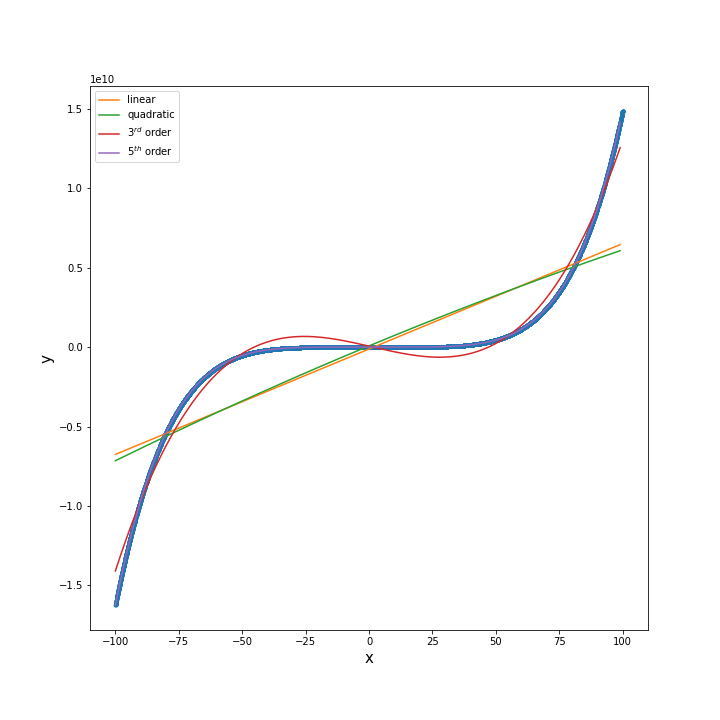
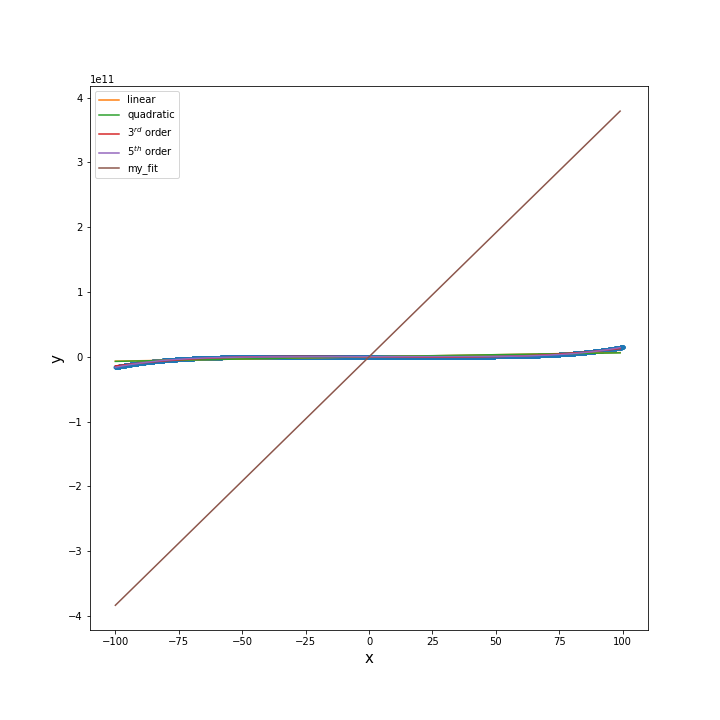
grad_desc fixed - unit tests to the resque!

diff --git a/test/test_inout_nn.py b/test/test_inout_nn.py
@@ -80,20 +80,38 @@ class InOutNNCostTests(unittest.TestCase):
         cost,_ = a.cost(sample,np.array([0,0,0]).T)
         self.assertEqual(cost,29/6)
 
+    def test_dcost_constant(self):
+        # y = 300
+        sample = np.array([np.ones(10000)]).T # for 1st  order polynomial
+        y = 300*np.ones(10000) 
+        a = nn.InOutNN(0)
+        a.W1=np.array([1000])
+        cost,dcost = a.cost(sample,y)
+        self.assertEqual(dcost, np.array([700]))
+        self.assertEqual(cost, 245000)
 
 class InOutNNGradientDescentTests(unittest.TestCase):
 
+    def test_gradient_descent_constant(self):
+        # y = 300
+        sample = np.array([np.ones(10000)]).T # for 1st  order polynomial
+        y = 300*np.ones(10000) 
+        a = nn.InOutNN(0, init_random=True)
+        a.W1=np.array([1000])
+        a.gradient_descent(sample,y, alpha=0.7, tol=0.0000001 )
+        self.assertAlmostEqual(a.W1[0], 300, places=3)
+
     def test_gradient_descent_linear(self):
-        # y = 2x + 3
+        # y = 2000*x - 300
         sample = np.array([np.ones(10000), np.random.rand(10000)]).T # for 1st  order polynomial
-        y = np.array([2*x+3 for x in sample[:,1]])
+        y = np.array([2000*x+300 for x in sample[:,1]])
         a = nn.InOutNN(1, init_random=True)
-        a.gradient_descent(sample,y)
+        a.gradient_descent(sample,y, alpha=1)
         try:
-            np.testing.assert_array_equal(a.W1, [3,2])
+            np.testing.assert_array_equal(a.W1, [300,2000])
             res=True
         except AssertionError:
-            print("{} in not equal to {}".format(a.W1, [3,2]))
+            print("{} in not equal to {}".format(a.W1, [300,2000]))
             res=False
         self.assertTrue(res)
 

diff --git a/src/inout_nn.py b/src/inout_nn.py
@@ -65,12 +65,12 @@ weight matrix, W1:
         l = len(y)
 
         cost = np.sum((h_x-y)**2)/(2*l) + lam*np.sum(self.W1**2)/(2*l)
-        dcost = np.array([np.sum( np.sum(h_x-y)*input_data[:,i] )/l 
+        dcost = np.array([np.sum( np.multiply((h_x-y),input_data[:,i]) )/l 
             + lam*self.W1[i]/l for i in range(self.n+1)])
 
         return (cost, dcost)
 
-    def gradient_descent(self, input_data, y, alpha=0.00001, tol=0.0001):
+    def gradient_descent(self, input_data, y, alpha=1, tol=0.0001):
         '''
         compute gradient descent for minimalisation of self.cost function
         
@@ -85,7 +85,7 @@ weight matrix, W1:
         self.W1  - optimized vectore
         '''
         theta = self.W1
-        imax=50
+        imax=200
 
         # regularisation parameter
         #lam = 0.01*len(y)/alpha
@@ -99,8 +99,12 @@ weight matrix, W1:
             i = i+1
             theta_old = self.W1
             cost, dcost = self.cost(input_data ,y, lam=lam)
-            print("cost: ",cost, self.W1)
+            print("cost: ",cost, self.W1, dcost)
             self.W1= self.W1 - alpha * dcost
+            # jumping from the wrong minimum
+            #if np.abs(cost_prev-cost)<tol:
+            #    self.W1 = self.W1*(0.01*np.random.rand(1)+1)
+
             cost_prev = cost
             if cost< tol:
                 convergence_condition = True    

diff --git a/src/preprocessing.py b/src/preprocessing.py
@@ -25,7 +25,7 @@ def _normalise_array(a):
     if std>0.0:
         normalised = normalised/std
 
-    return normalised
+    return (normalised, mean, std)
 
 
 def split_data(data,train=0.8, test=0.2):
@@ -78,16 +78,18 @@ def feature_scaling(data,n):
     Output
     ------
     features - array of normalised features
-    values   - array of values
+    scales   - array of scaling values
     '''
     m = len(data)
     features = [np.ones(m)] #x0
     if n>0:
-        features.append(_normalise_array(data[:,0])) #x1
+        norm, mean, std = _normalise_array(data[:,0])
+        features.append(norm) #x1
         for i in range(n-1):
             # take last feature and rescale it
             x_i_plus_1 = [x**(i+2) for x in features[-1]]
-            features.append( _normalise_array(x_i_plus_1)) 
+            norm, mean, std = _normalise_array(x_i_plus_1)
+            features.append( norm) 
         
     features.append(data[:,1])    
     features = np.array(features).T

diff --git a/test/test_preprocessing.py b/test/test_preprocessing.py
@@ -9,24 +9,24 @@ class NormaliseArrayTests(unittest.TestCase):
 
     def test_constant(self):
         a = list(np.zeros(10))
-        a_norm = list(pre._normalise_array(a))
+        a_norm = list(pre._normalise_array(a)[0])
         self.assertListEqual(a,a_norm)
 
     def test_ones(self):
         a = list(np.ones(10))
-        a_norm = list(pre._normalise_array(a))
+        a_norm = list(pre._normalise_array(a)[0])
         b = list(np.zeros(10))
         self.assertListEqual(a_norm,b)
 
     def test_mean(self):
         a = [2,0]
-        a_norm = list(pre._normalise_array(a))
+        a_norm = list(pre._normalise_array(a)[0])
         b = [1,-1]
         self.assertListEqual(a_norm,b)
 
     def test_std(self):
         a = [4,0]
-        a_norm = list(pre._normalise_array(a))
+        a_norm = list(pre._normalise_array(a)[0])
         b = [1,-1]
         self.assertListEqual(a_norm,b)
 

diff --git a/src/train.py b/src/train.py
@@ -33,8 +33,9 @@ def train(n, path_to_csv):
     # train the model 
     #-------------------------------------------------
     poly_coeffs = model.train(data['train'][:,:-1], data['train'][:,-1])
+
     print(poly_coeffs)
-    print(np.polyfit(data['train'][:,1], data['train'][:,-1], deg=n))
+    print(np.polyfit(data['train'][:,1], data['train'][:,-1], deg=n, full = True))
     
 
     # test the model 
